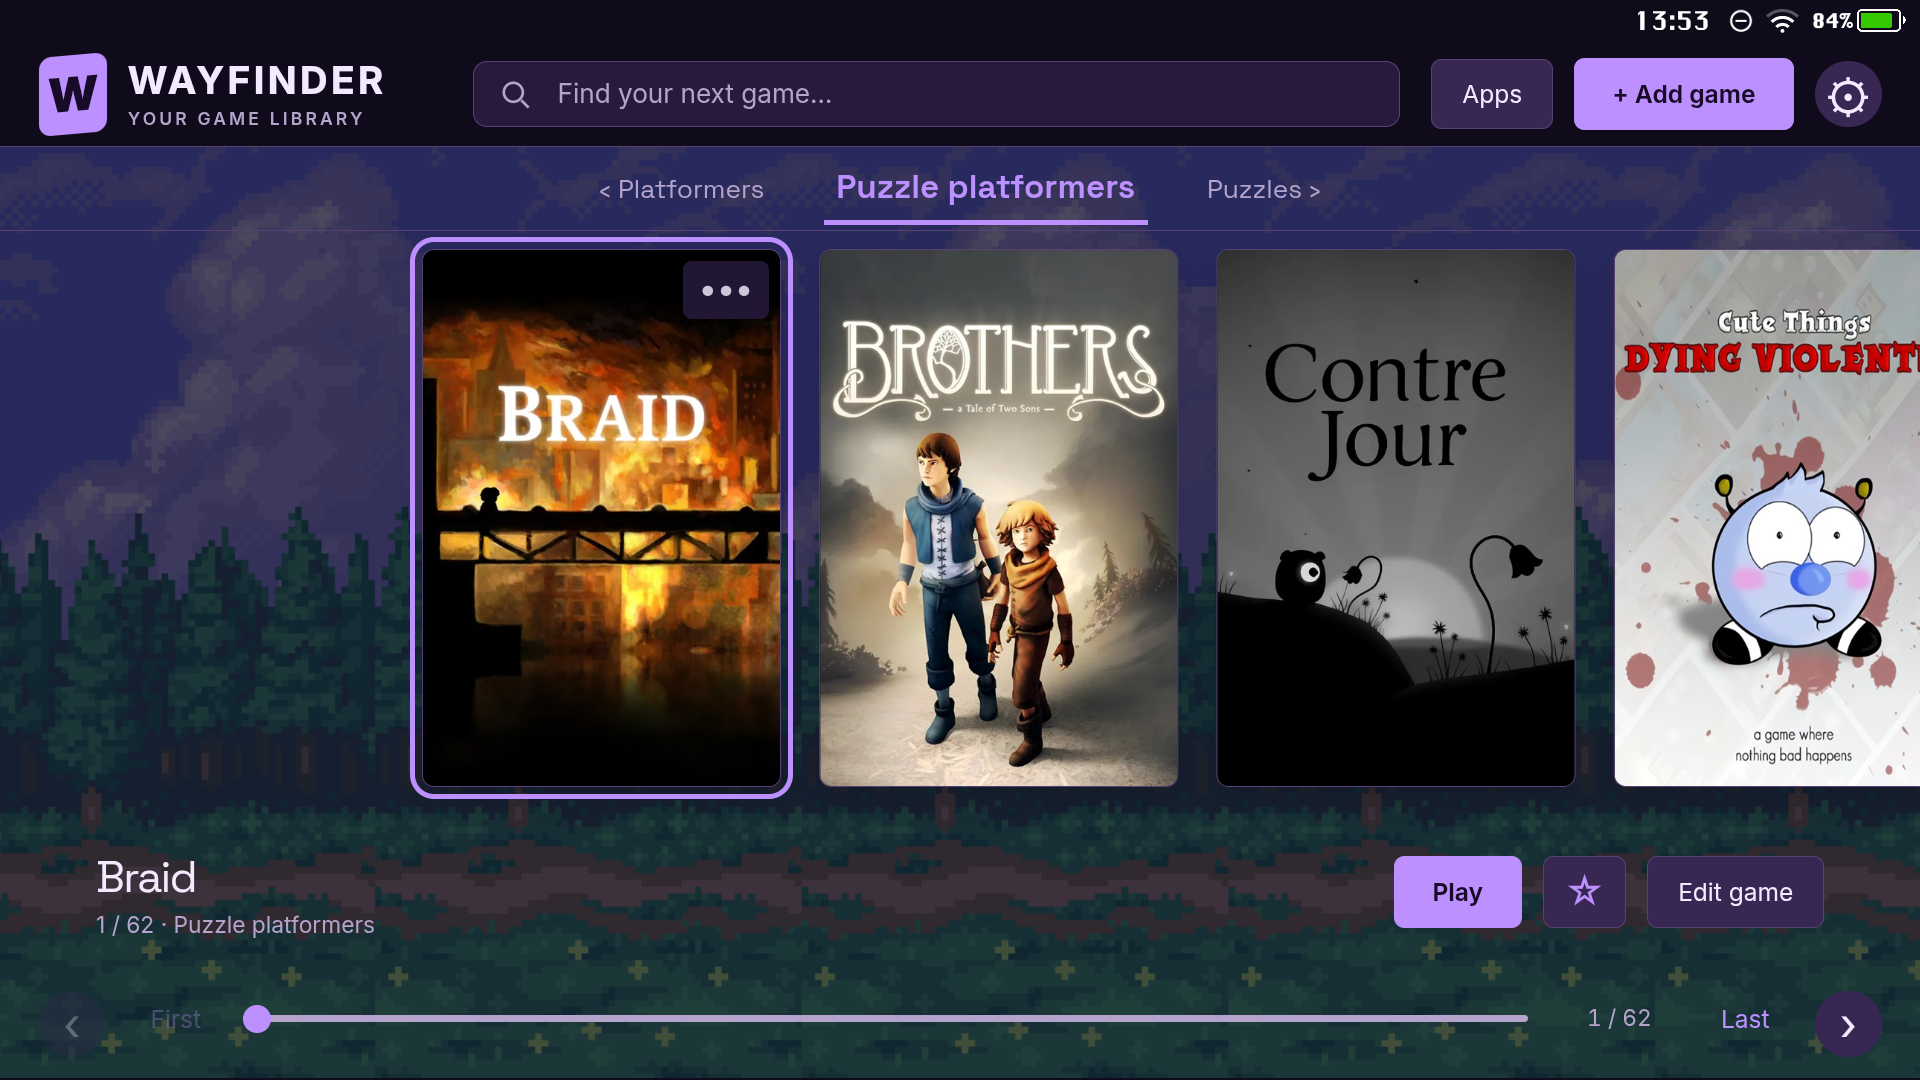
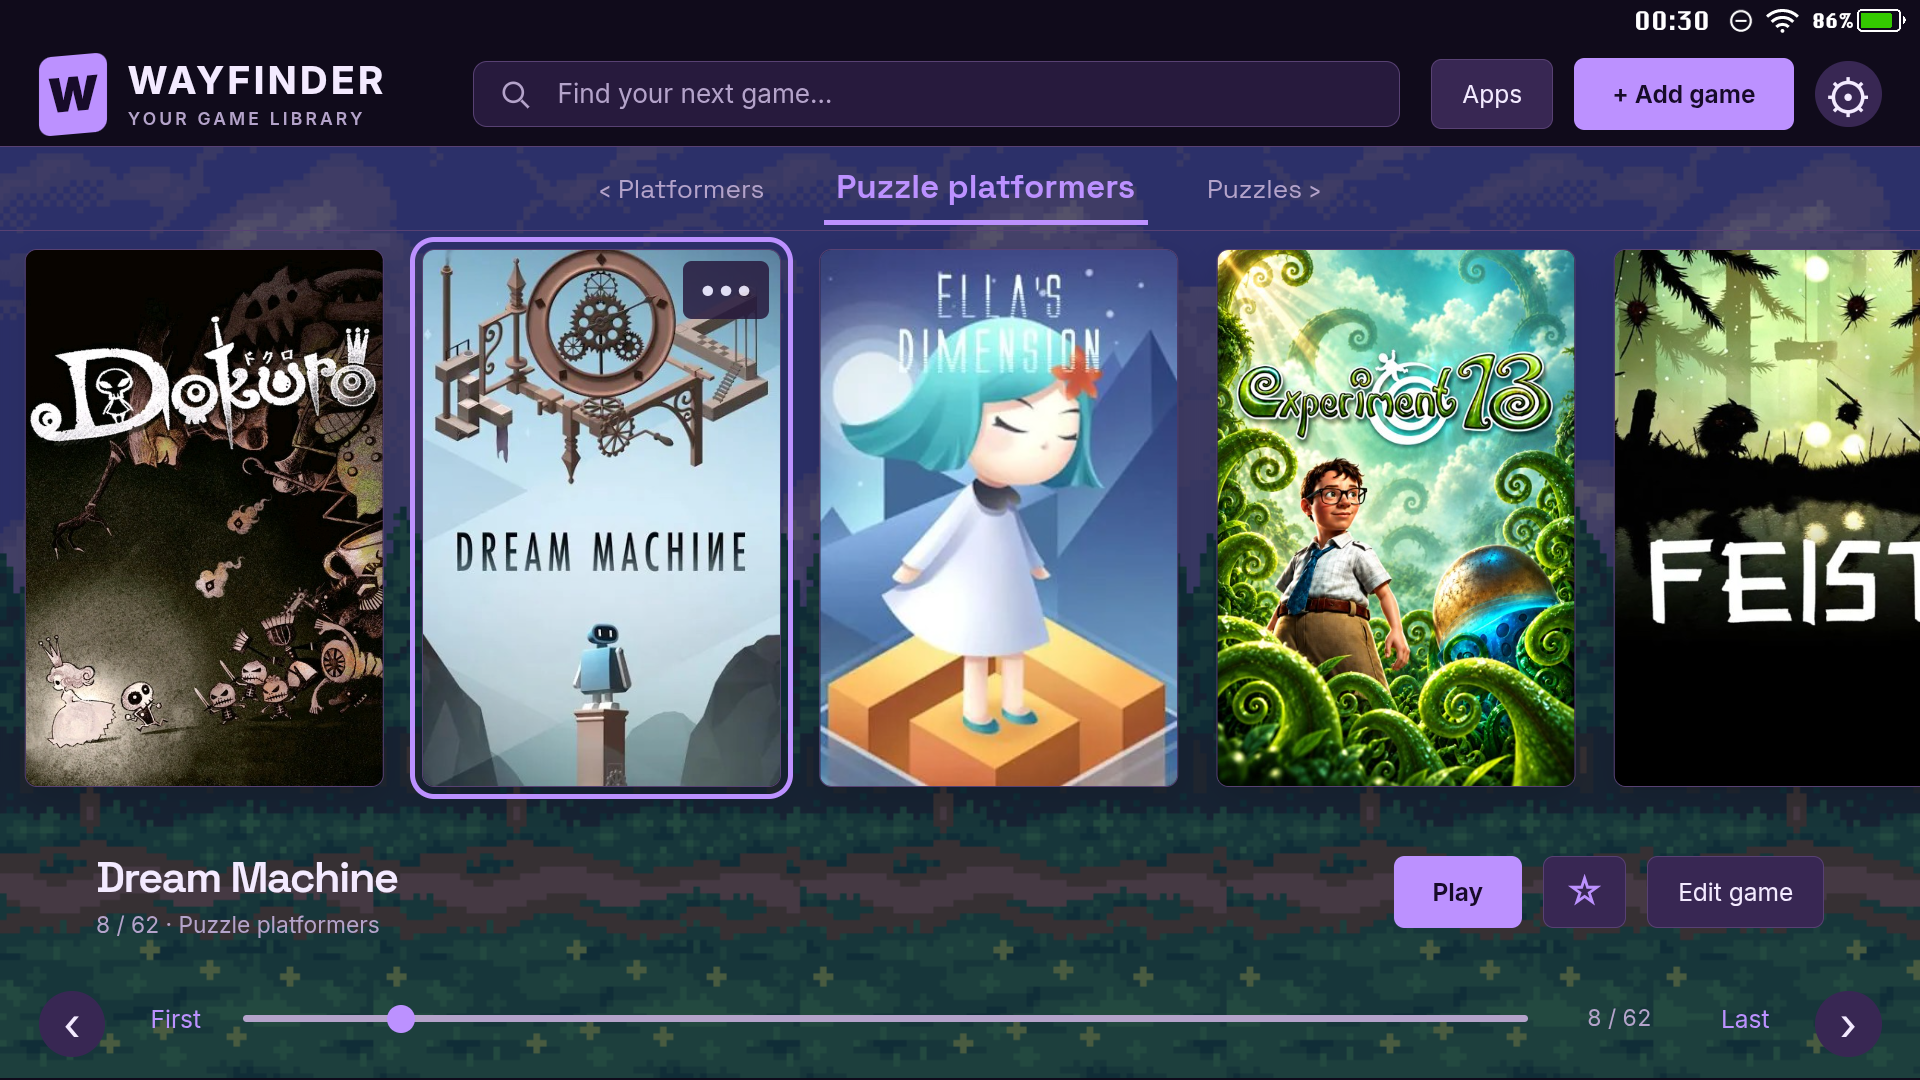
Refresh screenshot gallery with ten composed handheld views

diff --git a/docs/GALLERY.md b/docs/GALLERY.md
@@ -2,90 +2,90 @@
 
 [← Back to the README](../README.md)
 
-Wayfinder starts with a minimal idea: **one image per game**. It offers many ways to present that simple collection, with a wide choice of layouts, colors, typography, and backgrounds. These ten views show how differently the same library can feel.
+One cover per game, ten different ways to explore. From a quiet title list to a card table, carousel, or wall of artwork, these views show how differently the same collection can feel.
 
-These are fresh, unretouched 1920×1080 screenshots captured directly from Wayfinder 0.9.139 running on a Pimax Portal. The layouts, selections, and two discovery/favorites arrangements were composed for this gallery. Games and personal cover artwork are not included with Wayfinder. Animated backgrounds appear here as still frames; this development build may include changes newer than the published beta.
+Captured directly on a Pimax Portal at **1920 × 1080** on September 23, 2026. These are unretouched screenshots of the current development build; some appearance details may be newer than the published beta. Favorites, recent-game selections, and the Copenhagen table were arranged for the gallery. Games and personal cover artwork are not bundled with Wayfinder. Animated backdrops appear as still frames.
 
-[Cupertino](#cupertino) · [Kyoto](#kyoto) · [Ulm](#ulm) · [Venice](#venice) · [Cambridge](#cambridge) · [Berlin](#berlin) · [Oxford](#oxford) · [Tokyo](#tokyo) · [Vienna](#vienna) · [Copenhagen](#copenhagen)
+[Copenhagen](#copenhagen) · [Cupertino](#cupertino) · [Ulm](#ulm) · [Venice](#venice) · [Cambridge](#cambridge) · [Kyoto](#kyoto) · [Berlin](#berlin) · [Prague](#prague) · [Seattle](#seattle) · [Vienna](#vienna)
+
+## Copenhagen
+
+**Full House** — Felt · Default typography · Flat · Crisp shadows
+
+Twelve games on a green felt table, with warm ivory accents and KAMI selected. Keep a pick, replace it, or shuffle the table.
+
+![Copenhagen: Twelve games on a green felt table, with warm ivory accents and KAMI selected. Keep a pick, replace it, or shuffle the table.](screenshots/10-copenhagen.png)
 
 ## Cupertino
 
-**Midnight favorites** — Midnight · Outfit · Soft Gradient
+**Midnight favorites** — Midnight · Outfit · Soft Gradient · Artwork glow
 
-A favorite at the center of the collection, surrounded by angled covers, soft reflections, and a glow drawn from its artwork. Night in the Woods is selected.
+Night in the Woods anchors a carousel of favorites, with angled covers and soft reflections.
 
-![Cupertino: A favorite at the center of the collection, surrounded by angled covers, soft reflections, and a glow drawn from its artwork. Night in the Woods is selected.](screenshots/01-cupertino.png)
-
-## Kyoto
-
-**A little magic** — Violet · Space Grotesk · Magical Road
-
-Large, upright covers sit against a dim violet landscape. Braid anchors a shelf of puzzle platformers.
-
-![Kyoto: Large, upright covers sit against a dim violet landscape. Braid anchors a shelf of puzzle platformers.](screenshots/02-kyoto.png)
+![Cupertino: Night in the Woods anchors a carousel of favorites, with angled covers and soft reflections.](screenshots/01-cupertino.png)
 
 ## Ulm
 
-**Paper and quiet** — Parchment · Editorial · Flat
+**Paper and quiet** — Parchment · Editorial · Flat · Soft shadows
 
-Warm paper tones, generous typography, and a single cover give Tengami room to stand out.
+A spacious title list, understated controller hints, and a single Tengami cover show the quieter side of Wayfinder.
 
-![Ulm: Warm paper tones, generous typography, and a single cover give Tengami room to stand out.](screenshots/03-ulm.png)
+![Ulm: A spacious title list, understated controller hints, and a single Tengami cover show the quieter side of Wayfinder.](screenshots/03-ulm.png)
 
 ## Venice
 
 **A fan of stories** — Terracotta · Outfit · Soft Gradient
 
-Adventure covers form an overlapping fan around The Silent Age. Warm accents frame the selected game.
+A symmetrical fan of adventure covers surrounds The Silent Age, with warm accents and a restrained background.
 
-![Venice: Adventure covers form an overlapping fan around The Silent Age. Warm accents frame the selected game.](screenshots/04-venice.png)
+![Venice: A symmetrical fan of adventure covers surrounds The Silent Age, with warm accents and a restrained background.](screenshots/04-venice.png)
 
 ## Cambridge
 
-**The amber directory** — Amber · Computer · Flat
+**The amber directory** — Amber · IBM Plex Mono · Flat
 
-Categories, titles, and artwork share three distinct panes. KAMI adds a bright patch of color to the amber directory.
+Categories, titles, and artwork occupy three clear panes. KAMI brings a little color to a compact, text-focused browser.
 
-![Cambridge: Categories, titles, and artwork share three distinct panes. KAMI adds a bright patch of color to the amber directory.](screenshots/05-cambridge.png)
+![Cambridge: Categories, titles, and artwork occupy three clear panes. KAMI brings a little color to a compact, text-focused browser.](screenshots/05-cambridge.png)
+
+## Kyoto
+
+**A little magic** — Violet · Space Grotesk · Magical Road
+
+Large upright covers fill a shelf of puzzle platformers, with Dream Machine selected against a dim pixel-art landscape.
+
+![Kyoto: Large upright covers fill a shelf of puzzle platformers, with Dream Machine selected against a dim pixel-art landscape.](screenshots/02-kyoto.png)
 
 ## Berlin
 
-**A wall of discoveries** — Cyan · Space Grotesk · Underwater
+**Room for a collection** — Cyan · Space Grotesk · Underwater · Soft shadows
 
-A dense cover grid puts more of the collection in view, with crisp cyan accents and a subdued animated backdrop.
+Sixteen covers fit into two complete rows. Disjoint is selected in a dense, easy-to-scan category grid.
 
-![Berlin: A dense cover grid puts more of the collection in view, with crisp cyan accents and a subdued animated backdrop.](screenshots/06-berlin.png)
+![Berlin: Sixteen covers fit into two complete rows. Disjoint is selected in a dense, easy-to-scan category grid.](screenshots/06-berlin.png)
 
-## Oxford
+## Prague
 
-**The reading room** — Parchment · Editorial · Flat
+**The paper catalogue** — Parchment · Editorial · Flat · Soft shadows
 
-A title list and alphabetical index make a large category easy to scan, with Night in the Woods shown beside it.
+Four category columns put favorites, action adventures, action RPGs, and arcade games side by side, with small covers and readable titles.
 
-![Oxford: A title list and alphabetical index make a large category easy to scan, with Night in the Woods shown beside it.](screenshots/07-oxford.png)
+![Prague: Four category columns put favorites, action adventures, action RPGs, and arcade games side by side, with small covers and readable titles.](screenshots/07-prague.png)
 
-## Tokyo
+## Seattle
 
-**After hours** — Pink · Oxanium · Flat
+**Pick up a favorite** — Midnight · Outfit · Soft Gradient · Soft shadows
 
-A dark, pink-accented browser pairs Dream Machine’s cover with a compact list of nearby games.
+The dashboard brings recently played games and favorites together, with category navigation close at hand.
 
-![Tokyo: A dark, pink-accented browser pairs Dream Machine’s cover with a compact list of nearby games.](screenshots/08-tokyo.png)
+![Seattle: The dashboard brings recently played games and favorites together, with category navigation close at hand.](screenshots/08-seattle.png)
 
 ## Vienna
 
-**Woodland shelves** — Sea Glass · Outfit · Forest Illusion
+**Woodland shelves** — Sea Glass · Outfit · Forest Illusion · Soft shadows
 
-An expanded shelf of puzzle platformers sits between compact category previews, over a softly dimmed forest.
+An expanded shelf of puzzle platformers sits between compact previews of neighboring categories over a subdued forest backdrop.
 
-![Vienna: An expanded shelf of puzzle platformers sits between compact category previews, over a softly dimmed forest.](screenshots/09-vienna.png)
-
-## Copenhagen
-
-**Twelve possibilities** — Graphite · Outfit · Soft Gradient
-
-A composed table of twelve games shows Copenhagen’s invitation to discover something new, with KAMI selected.
-
-![Copenhagen: A composed table of twelve games shows Copenhagen’s invitation to discover something new, with KAMI selected.](screenshots/10-copenhagen.png)
+![Vienna: An expanded shelf of puzzle platformers sits between compact previews of neighboring categories over a subdued forest backdrop.](screenshots/09-vienna.png)
 
 [← Back to the README](../README.md)

diff --git a/README.md b/README.md
@@ -10,9 +10,9 @@ Wayfinder is an Android game launcher: an app for organizing, browsing, and open
 
 It is built for Android handhelds with a touchscreen and a game controller. You can open it like any other app or make it your Android home screen.
 
-![Cupertino: Night in the Woods centered among seven favorite games, with a soft green glow and reflections.](docs/screenshots/01-cupertino.png)
+![Copenhagen: twelve covers arranged on a green felt table with KAMI selected.](docs/screenshots/10-copenhagen.png)
 
-*Cupertino · Midnight palette · a cover-led view of your favorites.*
+*Copenhagen · Full House preset · a table of games to discover.*
 
 [Explore all ten app screenshots →](docs/GALLERY.md)
 
@@ -55,13 +55,13 @@ The current layouts are Alexandria, Berlin, Cambridge, Copenhagen, Cupertino, Ky
 
 You can also enable interface sounds, play the included background music or your own audio, and choose a startup video. These options are available in Settings.
 
-![Kyoto: Braid and neighboring puzzle platformer covers against a violet landscape.](docs/screenshots/02-kyoto.png)
+![Cupertino: Night in the Woods centered in a carousel of favorites with soft reflections and a green glow.](docs/screenshots/01-cupertino.png)
 
-*Kyoto · Violet palette · large covers against the Magical Road backdrop.*
+*Cupertino · Midnight palette · a carousel of favorites with artwork glow and reflections.*
 
-![Ulm: a warm parchment title list with Tengami’s cover beside it.](docs/screenshots/03-ulm.png)
+![Ulm: Tengami beside a spacious parchment title list with soft cover shadows.](docs/screenshots/03-ulm.png)
 
-*Ulm · Parchment palette · a quiet list with one selected cover.*
+*Ulm · Parchment palette · a quiet title list with one selected cover and soft shadows.*
 
 These screenshots come directly from the app running on a Pimax Portal. Games and personal cover artwork are not bundled. [See all ten layouts and their appearance settings in the gallery.](docs/GALLERY.md)
 
